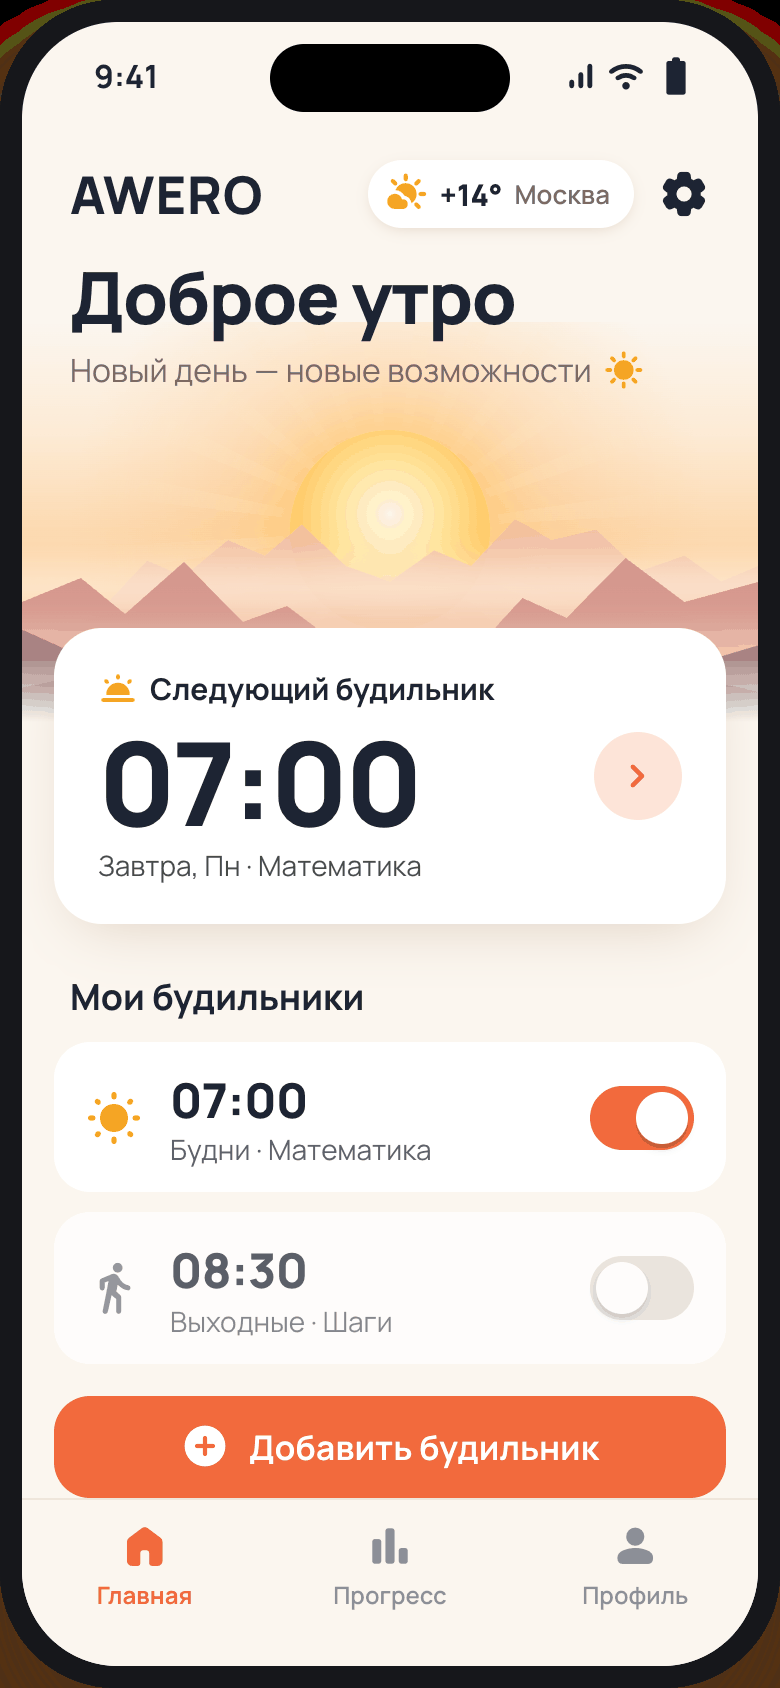
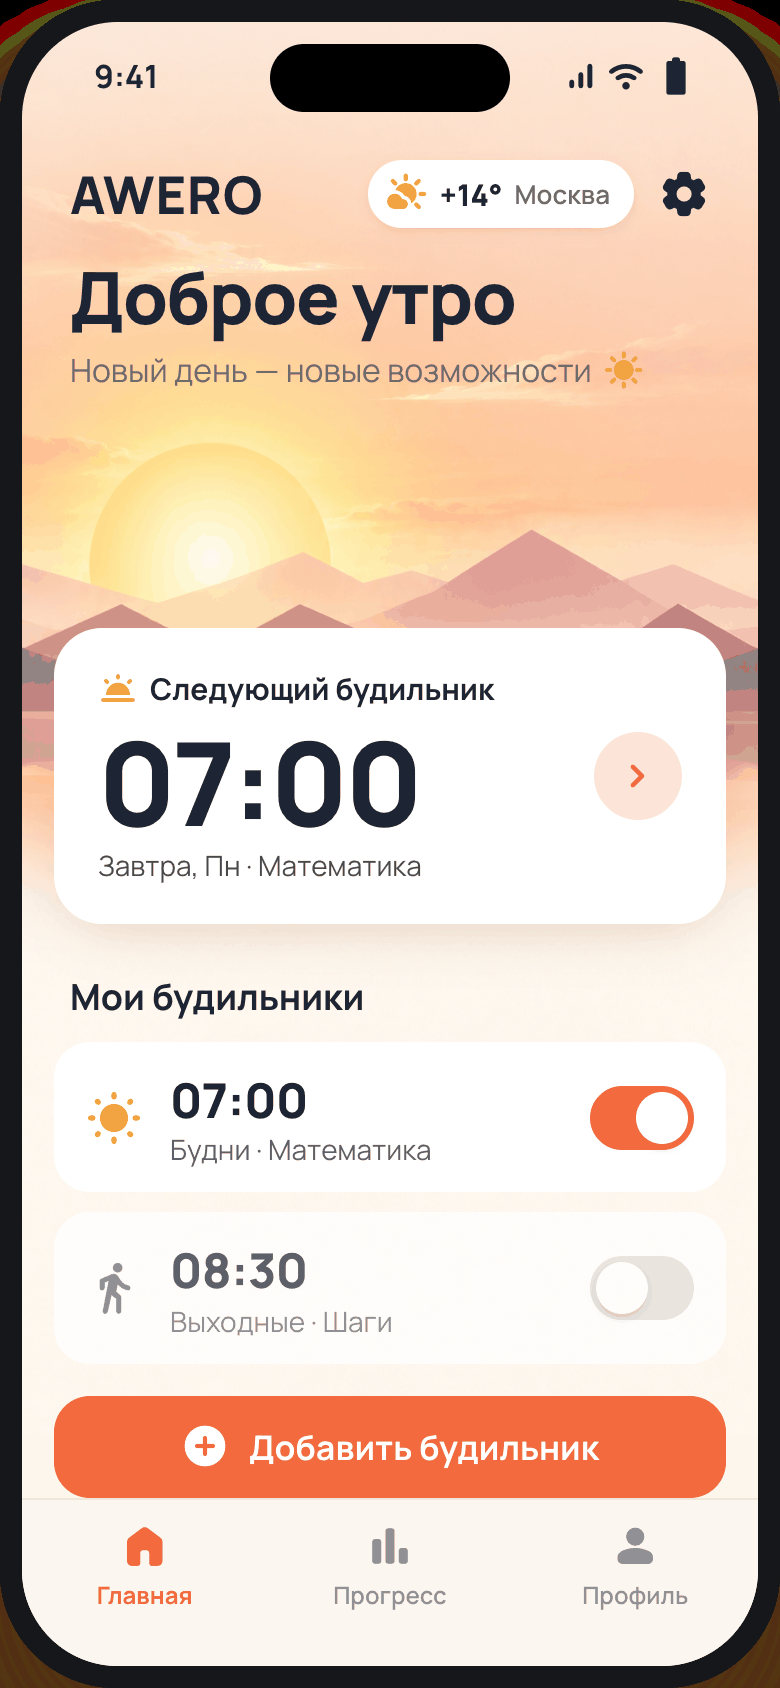
feat(ui): full-screen scene behind Home; add dark-theme reference screens
- Home now shows the time-of-day scene as a full-screen background, as
  in the reference screens: sun and peaks behind the greeting, the
  next-alarm card overlapping them. Replaces the header band.
- Scenes are the owner's portrait illustrations (dawn, day, sunset);
  the night scene ships with the dark theme. Band crops removed.
- Adds the owner's dark-theme reference screens under
  docs/design/screens/dark and the updated light Home reference.

Claude-Session: https://claude.ai/code/session_01Nn3XGyMQcyqJ96P5tniU3Z

Changed region(s): [[0.0308, 0.0, 0.9846, 0.5237], [0.1231, 0.6469, 0.1846, 0.6777], [0.1231, 0.4005, 0.1846, 0.4313]]

diff --git a/apps/ios/AWERO/App/AweroScene.swift b/apps/ios/AWERO/App/AweroScene.swift
@@ -1,44 +1,41 @@
 import SwiftUI
 import UIKit
 
-/// Illustrated mountain-lake scenes used as AWERO backgrounds. The Home band follows the time of day;
-/// the wake screen always uses the dawn scene from the approved design.
+/// Illustrated mountain-lake scenes used as AWERO page backgrounds. Home follows the time of
+/// day; the wake screen always uses dawn. The night scene arrives with the dark theme.
 enum AweroScene: String, CaseIterable {
-    case dawn, day, sunset, night
+    case dawn, day, sunset
 
-    /// Dawn 05–11, day 11–18, sunset 18–23, night 23–05 (device local time).
+    /// Dawn 05–11, day 11–18, sunset 18–05 (device local time).
     static func current(at date: Date = .now, calendar: Calendar = .current) -> AweroScene {
         switch calendar.component(.hour, from: date) {
         case 5..<11: return .dawn
         case 11..<18: return .day
-        case 18..<23: return .sunset
-        default: return .night
+        default: return .sunset
         }
     }
 
-    /// Wide crop for the Home header band.
-    var bandImage: UIImage? { Self.bandImages[self] ?? nil }
-
-    /// Portrait dawn scene for the wake and mission screens.
-    static let wakeImage: UIImage? = load("scene-dawn-portrait")
+    /// Full-screen portrait artwork; its bottom fades into the ivory surface.
+    var image: UIImage? { Self.images[self] ?? nil }
 
     // The scenes ship as loose JPEGs, which `Image(_ name:)` cannot resolve, so they are loaded by
     // path once and cached. A missing file falls back to the drawn sunrise.
-    private static let bandImages: [AweroScene: UIImage?] = Dictionary(
-        uniqueKeysWithValues: allCases.map { ($0, load("scene-\($0.rawValue)-band")) }
+    private static let images: [AweroScene: UIImage?] = Dictionary(
+        uniqueKeysWithValues: allCases.map { scene in
+            (scene, Bundle.main.path(forResource: "scene-\(scene.rawValue)-portrait", ofType: "jpg")
+                .flatMap(UIImage.init(contentsOfFile:)))
+        }
     )
-
-    private static func load(_ name: String) -> UIImage? {
-        Bundle.main.path(forResource: name, ofType: "jpg").flatMap(UIImage.init(contentsOfFile:))
-    }
 }
 
-/// Full-screen illustrated dawn scene behind the wake and mission screens. The artwork already
-/// fades into the ivory surface at the bottom, so it sits directly under the mission controls.
-struct WakeSceneBackground: View {
+/// Full-screen illustrated scene behind a page (Home, wake and mission screens). The artwork
+/// fades into the ivory surface at the bottom, so it sits directly under the page content.
+struct AweroSceneBackground: View {
+    var scene: AweroScene = .dawn
+
     var body: some View {
         Group {
-            if let image = AweroScene.wakeImage {
+            if let image = scene.image {
                 Image(uiImage: image)
                     .resizable()
                     .scaledToFill()

diff --git a/apps/android/app/src/main/java/app/awero/ui/SunriseArtwork.kt b/apps/android/app/src/main/java/app/awero/ui/SunriseArtwork.kt
@@ -21,38 +21,14 @@ import androidx.compose.ui.res.painterResource
 import androidx.compose.ui.graphics.drawscope.clipPath
 import androidx.compose.ui.unit.dp
 
-@Composable
-fun ApprovedHomeSunriseArtwork(
-    modifier: Modifier = Modifier,
-    height: androidx.compose.ui.unit.Dp = 160.dp,
-    scene: AweroScene = AweroScene.current()
-) {
-    Box(modifier.fillMaxWidth().height(height)) {
-        Image(
-            painter = painterResource(scene.band),
-            contentDescription = null,
-            contentScale = ContentScale.Crop,
-            modifier = Modifier.fillMaxWidth().height(height)
-        )
-        Box(
-            Modifier.align(Alignment.TopCenter).fillMaxWidth().height(height * 0.18f)
-                .background(Brush.verticalGradient(listOf(AweroDesign.ivory, AweroDesign.ivory.copy(alpha = 0f))))
-        )
-        Box(
-            Modifier.align(Alignment.BottomCenter).fillMaxWidth().height(height * 0.30f)
-                .background(Brush.verticalGradient(listOf(AweroDesign.ivory.copy(alpha = 0f), AweroDesign.ivory)))
-        )
-    }
-}
-
 /**
  * Full-screen illustrated dawn scene behind the in-app wake screen. The artwork already fades
  * into the ivory surface at the bottom, so it sits directly under the mission controls.
  */
 @Composable
-fun WakeSceneArtwork(modifier: Modifier = Modifier) {
+fun WakeSceneArtwork(modifier: Modifier = Modifier, scene: AweroScene = AweroScene.DAWN) {
     Image(
-        painter = painterResource(AweroScene.wakePortrait),
+        painter = painterResource(scene.portrait),
         contentDescription = null,
         contentScale = ContentScale.Crop,
         modifier = modifier.fillMaxSize()

diff --git a/apps/android/app/src/main/java/app/awero/ui/HomeScreen.kt b/apps/android/app/src/main/java/app/awero/ui/HomeScreen.kt
@@ -16,6 +16,9 @@ import androidx.compose.runtime.*
 import kotlinx.coroutines.launch
 import androidx.compose.ui.Alignment
 import androidx.compose.ui.Modifier
+import androidx.compose.ui.res.painterResource
+import androidx.compose.ui.layout.ContentScale
+import androidx.compose.ui.draw.paint
 import androidx.compose.ui.graphics.Brush
 import androidx.compose.ui.graphics.Color
 import androidx.compose.ui.res.stringResource
@@ -103,7 +106,10 @@ fun HomeScreen(
     }
 
     Column(
-        modifier = modifier.fillMaxSize().background(AweroIvory).padding(horizontal = 20.dp)
+        modifier = modifier.fillMaxSize().background(AweroIvory)
+            // Full-screen illustrated scene behind the page; it fades to ivory at the bottom.
+            .paint(painterResource(AweroScene.current().portrait), contentScale = ContentScale.Crop)
+            .padding(horizontal = 20.dp)
     ) {
         Column(Modifier.weight(1f).verticalScroll(rememberScrollState())) {
         Spacer(Modifier.height(12.dp))
@@ -135,7 +141,8 @@ fun HomeScreen(
             Text(stringResource(R.string.home_subtitle), color = AweroNavy.copy(alpha = .68f))
             AweroNavigationIcon("sun", tint = Color(0xFFFFA429))
         }
-        ApprovedHomeSunriseArtwork(Modifier.padding(top = 4.dp), height = 160.dp)
+        // Space for the scene's sun and peaks; the next-alarm card overlaps them.
+        Spacer(Modifier.height(150.dp))
         Spacer(Modifier.height(18.dp))
 
         if (alarmLoadState == AlarmLoadState.Loaded && nextAlarm != null && nextAlarmDescription != null && nextAlarmTime != null) {

diff --git a/apps/android/app/src/main/java/app/awero/ui/AweroScene.kt b/apps/android/app/src/main/java/app/awero/ui/AweroScene.kt
@@ -5,25 +5,23 @@ import app.awero.R
 import java.util.Calendar
 
 /**
- * Mountain-lake photo scenes used as AWERO backgrounds. The Home band follows the time of day;
- * the wake screen always uses the dawn scene from the approved design.
+ * Illustrated mountain-lake scenes used as AWERO page backgrounds. Home follows the time of day;
+ * the wake screen always uses dawn. The night scene arrives with the dark theme.
  */
-enum class AweroScene(@DrawableRes val band: Int) {
-    DAWN(R.drawable.scene_dawn_band),
-    DAY(R.drawable.scene_day_band),
-    SUNSET(R.drawable.scene_sunset_band),
-    NIGHT(R.drawable.scene_night_band);
+enum class AweroScene(@DrawableRes val portrait: Int) {
+    DAWN(R.drawable.scene_dawn_portrait),
+    DAY(R.drawable.scene_day_portrait),
+    SUNSET(R.drawable.scene_sunset_portrait);
 
     companion object {
         @DrawableRes
-        val wakePortrait: Int = R.drawable.scene_dawn_portrait
+        val wakePortrait: Int = DAWN.portrait
 
-        /** Dawn 05–11, day 11–18, sunset 18–23, night 23–05 (device local time). */
+        /** Dawn 05–11, day 11–18, sunset 18–05 (device local time). */
         fun current(hour: Int = Calendar.getInstance().get(Calendar.HOUR_OF_DAY)): AweroScene = when (hour) {
             in 5..10 -> DAWN
             in 11..17 -> DAY
-            in 18..22 -> SUNSET
-            else -> NIGHT
+            else -> SUNSET
         }
     }
 }

diff --git a/apps/ios/AWERO/App/SunriseArtwork.swift b/apps/ios/AWERO/App/SunriseArtwork.swift
@@ -1,36 +1,6 @@
 import SwiftUI
 import UIKit
 
-struct ApprovedHomeSunriseArtwork: View {
-    var height: CGFloat = 160
-    /// Defaults to the scene for the current time of day.
-    var scene: AweroScene = .current()
-
-    var body: some View {
-        Group {
-            if let image = scene.bandImage {
-                Image(uiImage: image)
-                    .resizable()
-                    .scaledToFill()
-            } else {
-                SunriseArtwork(height: height)
-            }
-        }
-        .frame(maxWidth: .infinity)
-        .frame(height: height)
-        .clipped()
-        .overlay(alignment: .top) {
-            LinearGradient(colors: [AweroDesign.ivory, AweroDesign.ivory.opacity(0)], startPoint: .top, endPoint: .bottom)
-                .frame(height: height * 0.18)
-        }
-        .overlay(alignment: .bottom) {
-            LinearGradient(colors: [AweroDesign.ivory.opacity(0), AweroDesign.ivory], startPoint: .top, endPoint: .bottom)
-                .frame(height: height * 0.30)
-        }
-        .accessibilityHidden(true)
-    }
-}
-
 struct SunriseArtwork: View {
     var height: CGFloat = 148
     var cornerRadius: CGFloat = 0

diff --git a/apps/ios/AWERO/App/HomeView.swift b/apps/ios/AWERO/App/HomeView.swift
@@ -29,6 +29,9 @@ struct HomeView: View {
     var body: some View {
         ZStack {
                 AweroDesign.ivory.ignoresSafeArea()
+                AweroSceneBackground(scene: .current(at: now))
+                    .ignoresSafeArea()
+                    .allowsHitTesting(false)
                 VStack(spacing: 0) {
                 // Header stays pinned so Settings is always reachable, whatever the scroll position.
                 HStack {
@@ -65,7 +68,8 @@ struct HomeView: View {
                         }
                         .padding(.top, 4)
 
-                        ApprovedHomeSunriseArtwork(height: 160, scene: .current(at: now))
+                        // Space for the scene's sun and peaks; the next-alarm card overlaps them.
+                        Color.clear.frame(height: 150)
                             .padding(.horizontal, -20)
 
                         if let next = upcomingAlarms.first {

diff --git a/apps/ios/AWERO/App/WakeScreen.swift b/apps/ios/AWERO/App/WakeScreen.swift
@@ -11,7 +11,7 @@ struct WakeScreen: View {
     var body: some View {
         ZStack(alignment: .top) {
             AweroDesign.ivory.ignoresSafeArea()
-            WakeSceneBackground()
+            AweroSceneBackground(scene: .dawn)
                 .ignoresSafeArea()
                 .allowsHitTesting(false)
 

diff --git a/docs/design/PRODUCT_UX_DESIGN.md b/docs/design/PRODUCT_UX_DESIGN.md
@@ -25,6 +25,8 @@ Where these differ from the concept board, these win:
 
 The binding per-screen targets are in [`screens/`](screens): [Home](screens/home.png), [New alarm](screens/create-alarm.png), [Wake — Math](screens/wake-math.png), [Wake — Steps](screens/wake-steps.png), [Wake — QR](screens/wake-qr.png), [Progress](screens/progress.png) and [Profile](screens/profile.png).
 
+Dark-theme counterparts are in [`screens/dark/`](screens/dark): [Home](screens/dark/home.png), [New alarm](screens/dark/create-alarm.png), [Wake — Math](screens/dark/wake-math.png), [Wake — Steps](screens/dark/wake-steps.png), [Progress](screens/dark/progress.png) and [Profile](screens/dark/profile.png). The dark theme follows the system appearance across the whole app and uses the night scene; it replaces the narrower "dim wake variant" of correction 3.
+
 They are taken literally except for these owner-approved points:
 
 - **Steps:** the hint "tap the circle to simulate steps" is a prototype aid; real steps come from the motion sensor.
@@ -37,7 +39,7 @@ They are taken literally except for these owner-approved points:
 
 ## Scene illustrations
 
-Backgrounds use one illustrated mountain-lake scene at four times of day, supplied by the owner (853×1844 portraits; `apps/ios/AWERO/App/Scenes`, `apps/android/app/src/main/res/drawable-nodpi/scene_*`). The Home header band is a crop around the sun or moon and follows device local time: dawn 05–11, day 11–18, sunset 18–23, night 23–05. The wake and mission screens show the full portrait dawn scene; its bottom already fades into the ivory surface behind the mission controls. The night portrait is reserved for the dim wake variant (correction 3), which also has to switch mission text colors and ships separately.
+Pages use one illustrated mountain-lake scene at several times of day, supplied by the owner (853×1844 portraits; `apps/ios/AWERO/App/Scenes`, `apps/android/app/src/main/res/drawable-nodpi/scene_*`). As in the reference screens, the scene is a full-screen background behind the page: the sun and peaks sit behind the greeting and the next-alarm card overlaps them, and the artwork fades into the ivory surface at the bottom. In the light theme Home follows device local time — dawn 05–11, day 11–18, sunset 18–05 — and the wake and mission screens always use dawn. The night scene belongs to the dark theme and ships with it.
 
 ## Screens and implementation status
 
